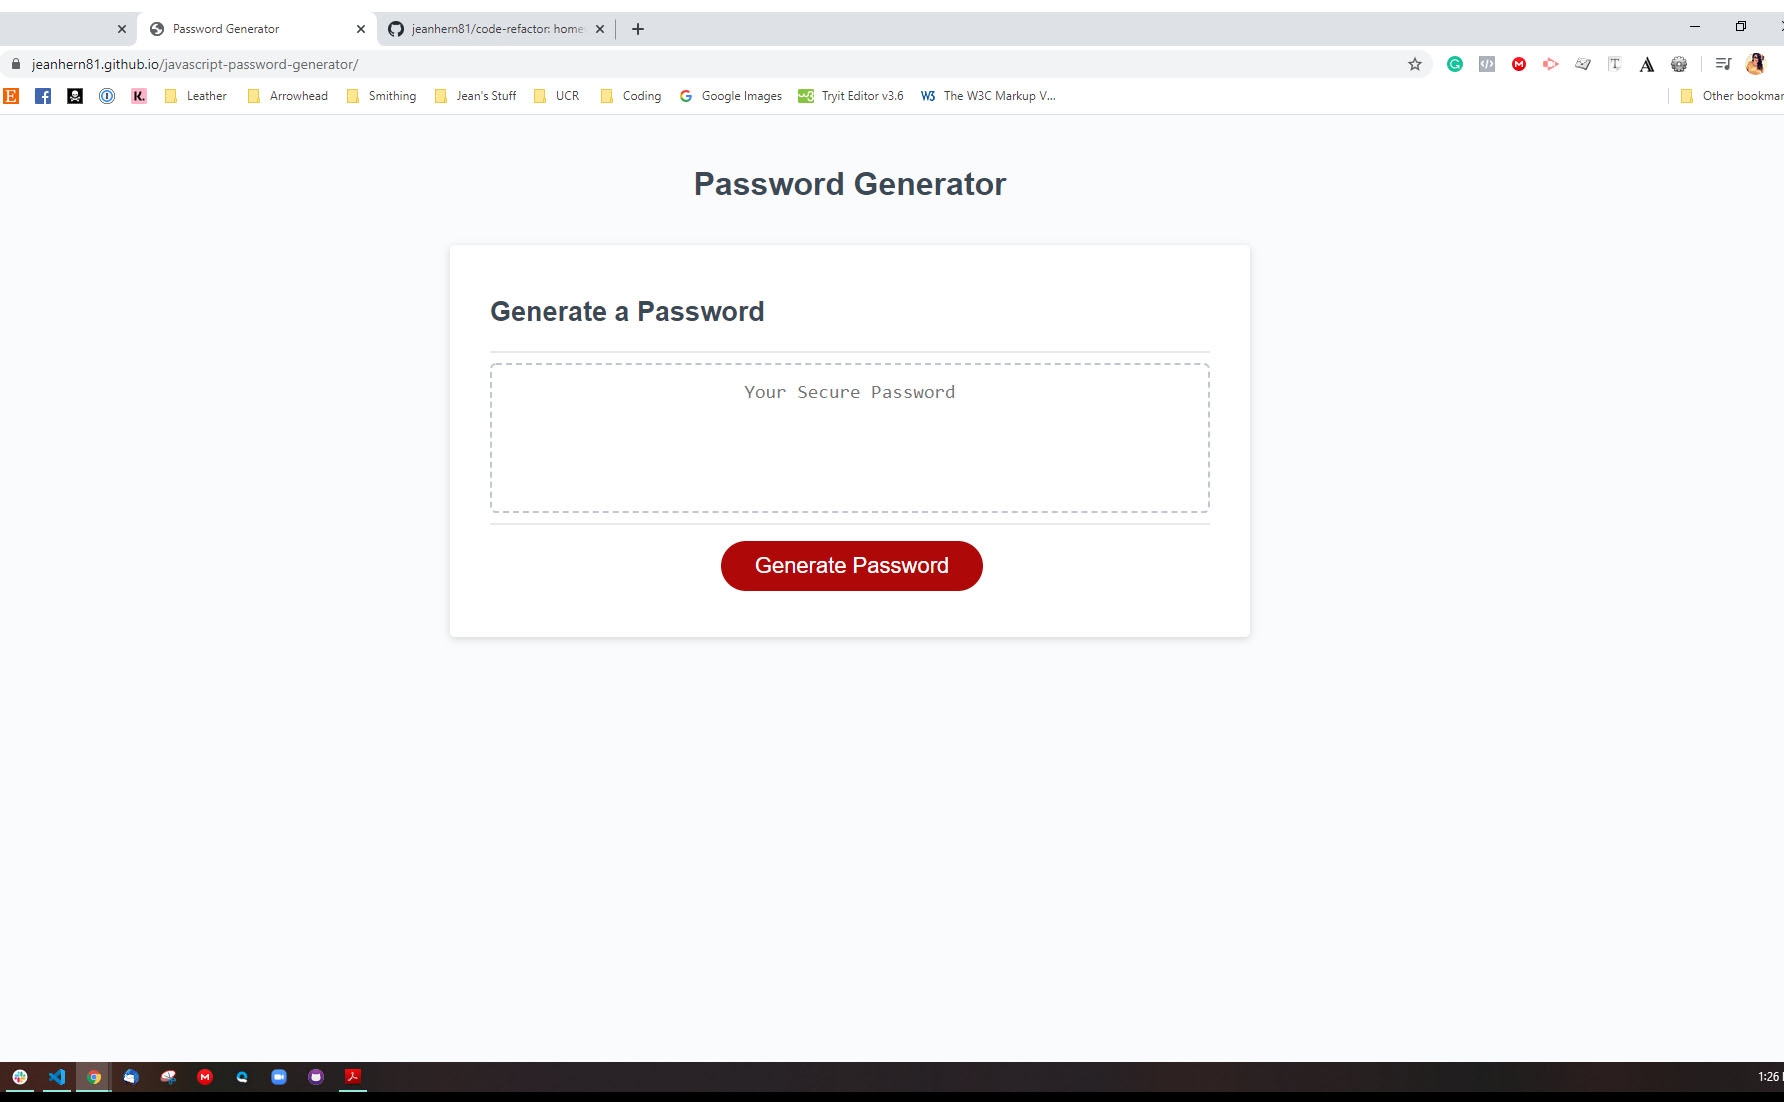
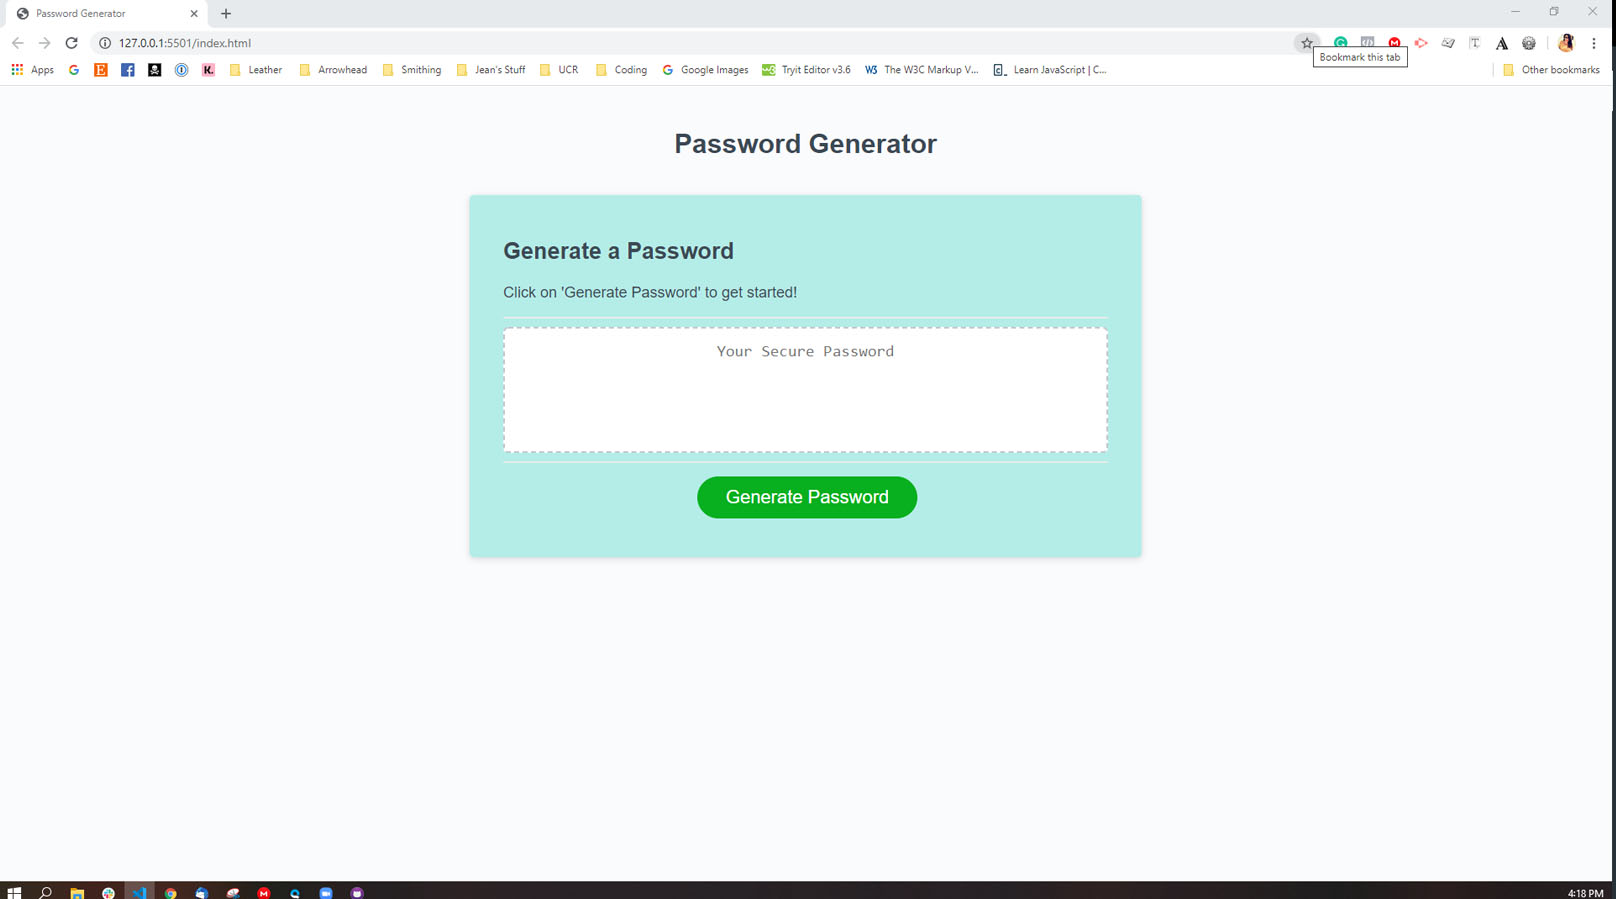
made a few last minute changes to css style sheet

Changed region(s): [[0.0, 0.0, 1.0, 1.0], [0.2785, 0.218, 0.7116, 0.6229], [0.3713, 0.1557, 0.5879, 0.1869]]

diff --git a/assets/css/style.css b/assets/css/style.css
@@ -31,7 +31,7 @@ header {
 }
 
 .card {
-  background-color: hsl(0, 0%, 100%);
+  background-color: hsla(172, 66%, 53%, 0.356);
   border-radius: 5px;
   border-width: 1px;
   box-shadow: rgba(0, 0, 0, 0.15) 0px 2px 8px 0px;
@@ -46,7 +46,7 @@ header {
   content: " ";
   display: block;
   width: 100%;
-  background: #e7e9eb;
+  background: #e9ebe7;
   height: 2px;
 }
 
@@ -62,7 +62,7 @@ header {
   content: " ";
   display: block;
   width: 100%;
-  background: #e7e9eb;
+  background: #e8ebe7;
   height: 2px;
 }
 
@@ -74,7 +74,7 @@ header {
 
 .btn {
   border: none;
-  background-color: hsl(360, 91%, 36%);
+  background-color:rgb(8, 175, 30);
   border-radius: 25px;
   box-shadow: rgba(0, 0, 0, 0.1) 0px 1px 6px 0px rgba(0, 0, 0, 0.2) 0px 1px 1px
     0px;

diff --git a/index.html b/index.html
@@ -15,6 +15,7 @@
       <div class="card">
         <div class="card-header">
           <h2>Generate a Password</h2>
+          <p>Click on 'Generate Password' to get started!</p>
         </div>
         <div class="card-body">
           <textarea
